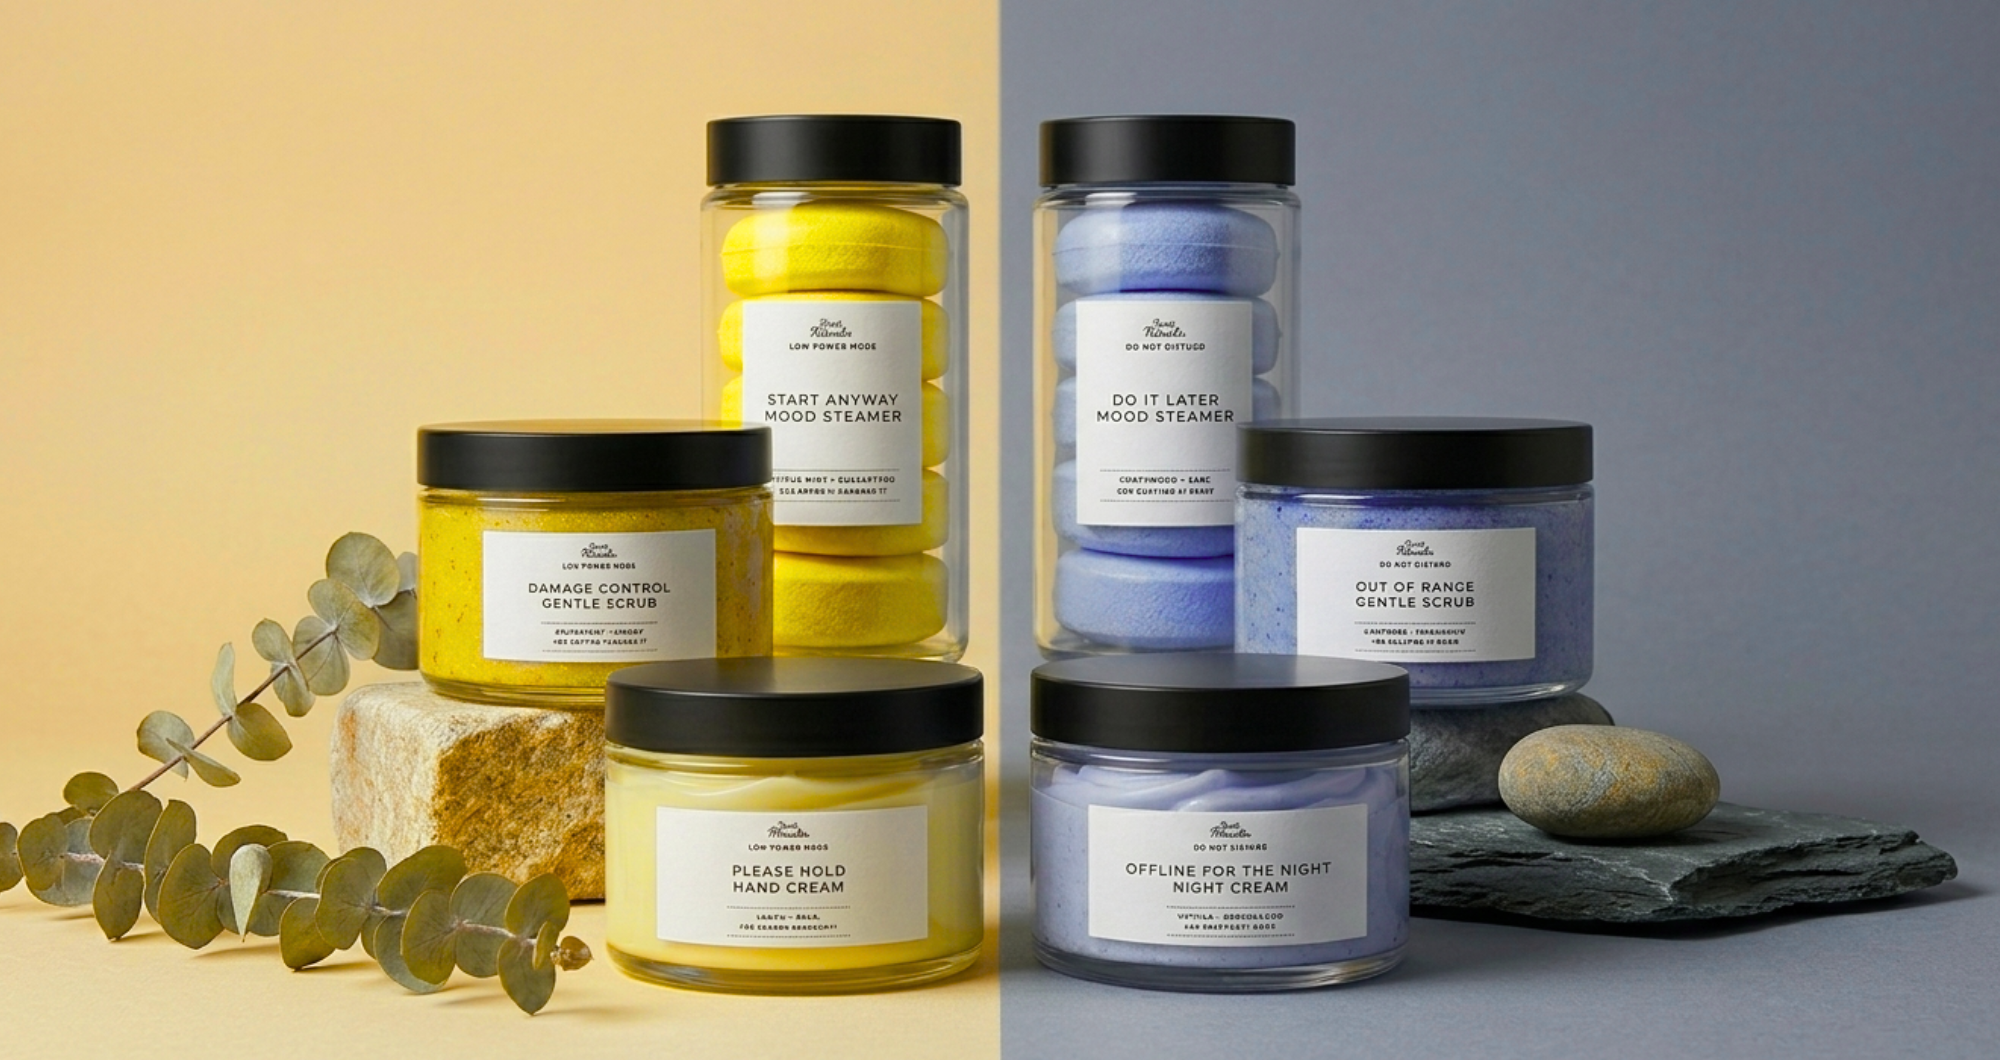
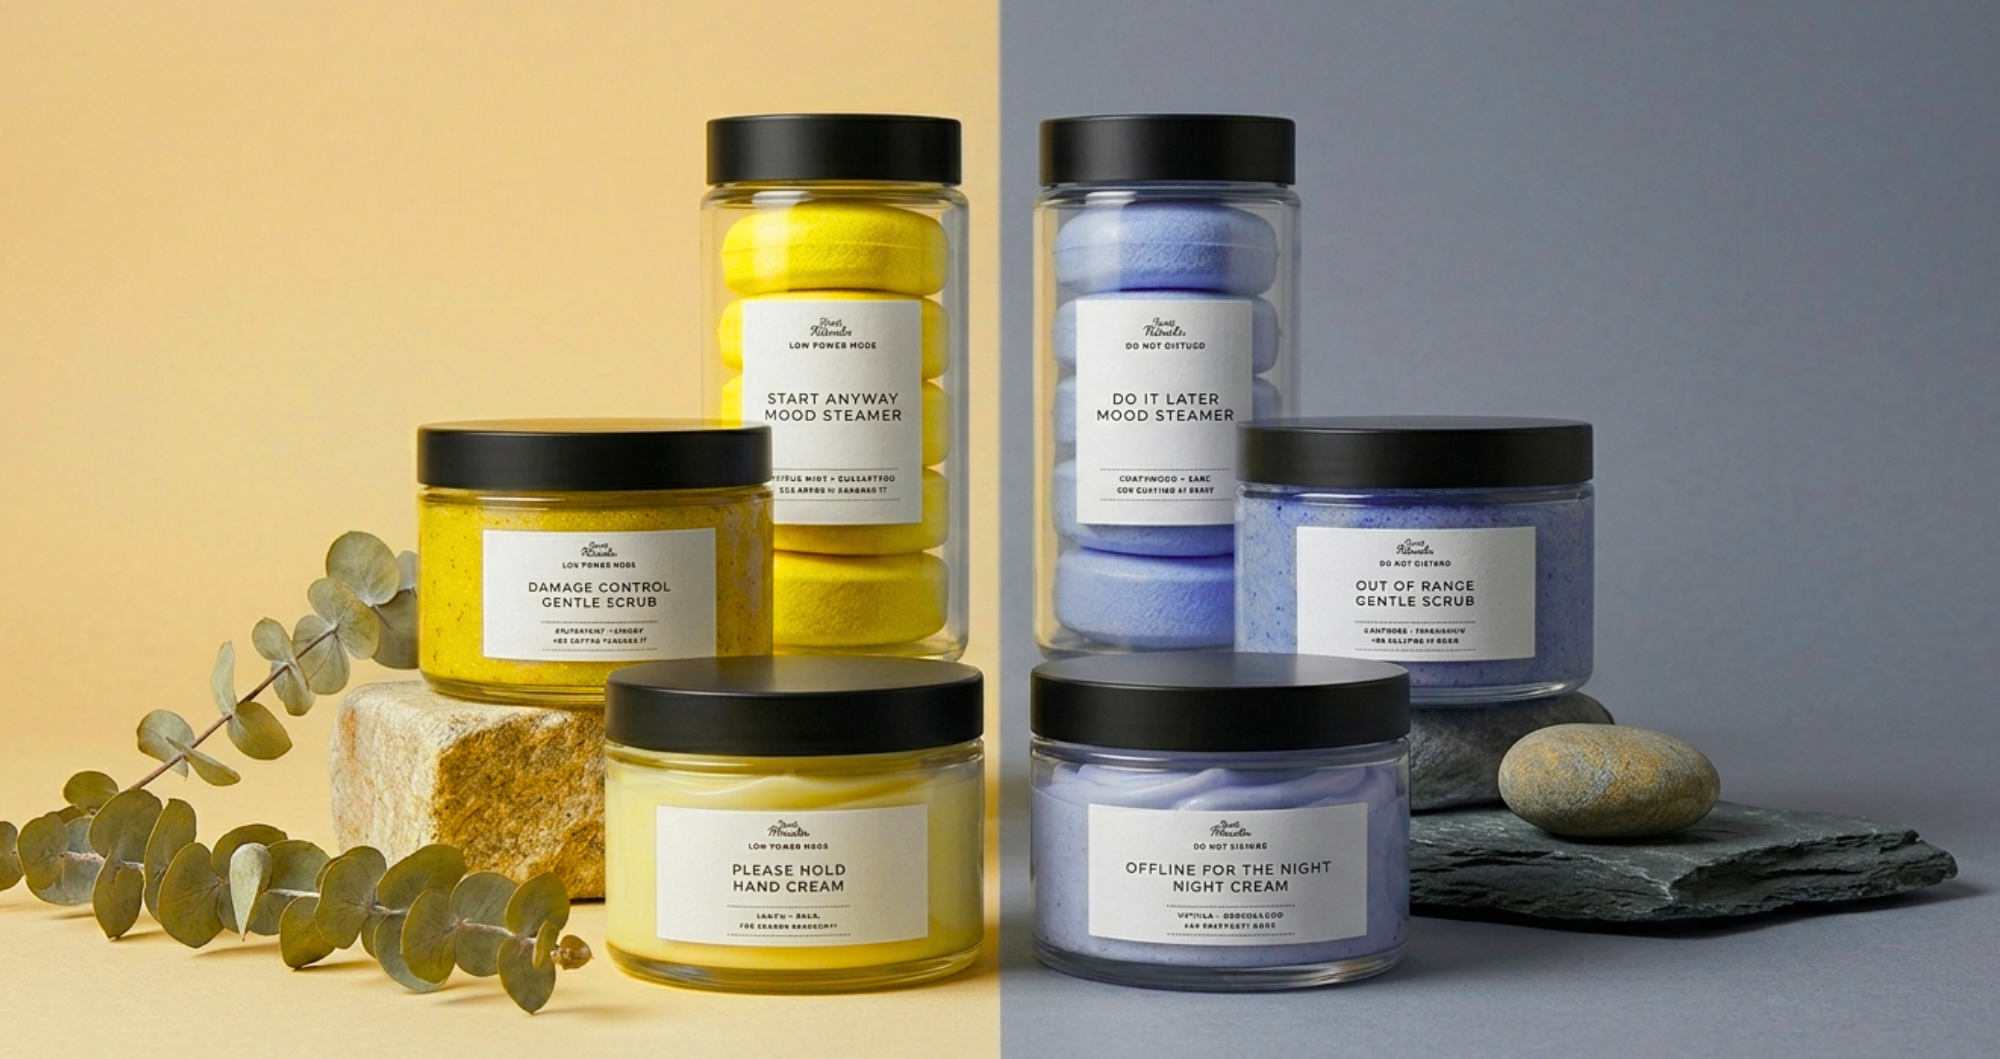
Add files via upload

diff --git a/style.css b/style.css
@@ -1,6 +1,7 @@
 /* RESET RITUALS — STYLESHEET
-   GIT 519 Final Project
-   Author: Ruby Hassan */
+    GIT 519 Final Project
+    Author: Ruby Hassan
+    Assets: All images, logos, labels, and product mockups were created by the author for Reset Rituals. */
 
 
 /* FONT IMPORTS */
@@ -122,7 +123,7 @@ p {
 ::selection { background: var(--ink); color: var(--bg-page); }
 
 
-/* SHARED UI TEXT (buttons, nav, labels) */
+/* UI TEXT (buttons, nav, labels) */
 .uiText, #mainNav a, #footerNav a, #themeControls button,
 #modeSwitch button, #productControls button, #heroBtn,
 #playBtn, #submitBtn, footer p,
@@ -138,7 +139,7 @@ p {
 /* HEADER */
 header {
     background-color: var(--bg-page);
-    padding: 1.5rem 4rem;
+    padding: 0 4rem;
     display: grid;
     grid-template-columns: auto 1fr auto;
     align-items: center;
@@ -146,10 +147,13 @@ header {
     max-width: var(--max-width);
     margin: 0 auto;
     border-bottom: 1px solid var(--border);
+    position: sticky;
+    top: 0;
+    z-index: 100;
 }
 
 #siteLogo {
-    height: 66px;
+    height: 60px;
     width: auto;
 }
 
@@ -173,12 +177,12 @@ header {
     gap: 0.25rem;
     border: 1px solid var(--border);
     border-radius: 999px;
-    padding: 0.25rem;
+    padding: 0.1875rem;
 }
 #themeControls button {
-    font-size: 0.75rem;
+    font-size: 0.6875rem;
     color: var(--ink);
-    padding: 0.5rem 1.1rem;
+    padding: 0.5rem 1.75rem;
     border-radius: 999px;
     transition: all 0.3s ease;
 }
@@ -210,6 +214,7 @@ main {
 #heroOverlay {
     width: 100%;
     height: 100%;
+    background-color: rgba(0, 0, 0, 0.15);
     display: flex;
     flex-direction: column;
     justify-content: space-between;
@@ -263,12 +268,12 @@ main {
     border: 1px solid var(--border);
     border-radius: 999px;
     padding: 0.375rem;
-    margin-bottom: 1.75rem;
+    margin-bottom: 1.5rem;
 }
 #modeSwitch button {
     font-size: 0.75rem;
     color: var(--ink);
-    padding: 0.85rem 1.75rem;
+    padding: 0.75rem 2.5rem;
     border-radius: 999px;
     transition: all 0.3s ease;
 }
@@ -282,7 +287,7 @@ main {
     grid-template-columns: repeat(3, 200px);
     gap: 0.75rem;
     justify-content: center;
-    margin-bottom: 4rem;
+    margin-bottom: 2.5rem;
 }
 #productControls button {
     font-size: 0.75rem;
@@ -292,6 +297,7 @@ main {
     border-radius: 999px;
     background-color: transparent;
     transition: all 0.25s ease;
+    max-width: 200px;
 }
 #productControls button:hover { border-color: var(--ink); }
 #productControls button.activeProduct {
@@ -306,7 +312,10 @@ main {
     max-width: 520px;
     margin: 0 auto;
     text-align: center;
-    animation: ease-in-out;
+}
+
+.productCard.currentItem h3{
+    animation: fadeIn 0.4s ease-in-out;
 }
 
 .productCard img {
@@ -329,15 +338,17 @@ main {
 
 .productCard .scent {
     display: inline-block;
+    width: 380px;
     background-color: var(--highlight-bg);
     color: var(--highlight-text);
     font-family: var(--font-display);
     font-size: 1.125rem;
     font-style: italic;
     font-weight: 400;
-    padding: 0.4rem 8rem;
-    margin-bottom: 1.5rem;
+    padding: 0.26rem 0;
+    margin: 0 auto 1rem;
     border-radius: 2px;
+    text-align: center;
 }
 
 .productCard .desc {
@@ -345,7 +356,7 @@ main {
     line-height: 1.75;
     color: var(--ink-soft);
     margin: 0 auto;
-    max-width: 44ch;
+    max-width: 32ch;
 }
 
 .hiddenItem { display: none; }
@@ -556,13 +567,41 @@ body.dark #contactForm textarea:focus { border-color: var(--yellow); }
     gap: 2rem;
     align-items: center;
 }
+
 #contactPref input[type="radio"] {
-    width: auto;
+    appearance: none;
+    -webkit-appearance: none;
+    width: 16px;
+    height: 16px;
     margin-right: 0.5rem;
-    accent-color: var(--ink);
+    border: 1.5px solid var(--ink);
+    border-radius: 50%;
+    background-color: var(--bg-form);
     cursor: pointer;
+    position: relative;
+    vertical-align: middle;
 }
-body.dark #contactPref input[type="radio"] { accent-color: var(--yellow); }
+
+#contactPref input[type="radio"]:checked::after {
+    content: "";
+    position: absolute;
+    top: 50%;
+    left: 50%;
+    transform: translate(-50%, -50%);
+    width: 8px;
+    height: 8px;
+    border-radius: 50%;
+    background-color: var(--ink);
+}
+
+body.dark #contactPref input[type="radio"] {
+    border-color: var(--yellow);
+    background-color: var(--bg-form);
+}
+
+body.dark #contactPref input[type="radio"]:checked::after {
+    background-color: var(--yellow);
+}
 
 #contactPref .radioRow label {
     display: inline;
@@ -640,14 +679,20 @@ body.dark #submitBtn {
     font-size: 0.95rem;
     line-height: 1.85;
 }
-#formSuccess p strong {
+#formSuccess .successLine {
+    margin-bottom: 0.75rem;
+}
+#formSuccess .successLine:last-child {
+    margin-bottom: 0;
+}
+#formSuccess strong {
     font-family: var(--font-ui);
     font-size: 0.7rem;
     letter-spacing: 0.2em;
     text-transform: uppercase;
     color: var(--ink);
     display: block;
-    margin-top: 0.75rem;
+    margin-bottom: 0.25rem;
 }
 
 

diff --git a/index.html b/index.html
@@ -4,12 +4,12 @@
     <meta charset="UTF-8">
     <meta name="description" content="Reset Rituals. Self-care for getting through it and for shutting it down. Mood steamers, gentle scrubs, and recovery creams for your AM and PM rituals.">
     <meta name="author" content="Ruby Hassan">
-    <title>Reset Rituals. | For Getting Through It. For Shutting It Down.</title>
-    <link rel="icon" type="image/png" href="images/logo_pm.png">
+    <title>Reset Rituals. | For Getting Through It & For Shutting It Down.</title>
+    <link rel="icon" type="image/png" href="images/logo_favicon.png">
     <link rel="stylesheet" href="style.css">
     <script src="script.min.js" defer></script>
 </head>
-<body>
+<body id="top">
 
     <header id="top">
         <a href="#top" id="logoLink">
@@ -26,8 +26,8 @@
         </nav>
         <section id="themeControls">
             <h2 class="sr-only">Theme</h2>
-            <button id="lightBtn" type="button" class="activeTheme">Light</button>
-            <button id="darkBtn" type="button">Dark</button>
+            <button id="lightBtn" type="button" class="activeTheme" aria-pressed="true">Light</button>
+            <button id="darkBtn" type="button" aria-pressed="false">Dark</button>
         </section>
     </header>
 
@@ -46,15 +46,15 @@
 
             <section id="modeSwitch">
                 <h3 class="sr-only">Choose Your Mode</h3>
-                <button id="amBtn" type="button" class="activeMode">Low Power Mode</button>
-                <button id="pmBtn" type="button">Do Not Disturb</button>
+                <button id="amBtn" type="button" class="activeMode" aria-pressed="true">Low Power Mode</button>
+                <button id="pmBtn" type="button" aria-pressed="false">Do Not Disturb</button>
             </section>
 
             <section id="productControls">
                 <h3 class="sr-only">Select a Product</h3>
-                <button id="steamerBtn" type="button" class="activeProduct">Mood Steamer</button>
-                <button id="scrubBtn" type="button">Gentle Scrub</button>
-                <button id="creamBtn" type="button">Recovery Cream</button>
+                <button id="steamerBtn" type="button" class="activeProduct" aria-pressed="true">Mood Steamer</button>
+                <button id="scrubBtn" type="button" aria-pressed="false">Gentle Scrub</button>
+                <button id="creamBtn" type="button" aria-pressed="false">Recovery Cream</button>
             </section>
 
             <section id="steamerAM" class="productCard currentItem">
@@ -105,9 +105,9 @@
             <p class="gameSub">Pick a number from 1 to 10.</p>
             <p class="gameSub">Match ours and you&rsquo;re entered into our launch giveaway.</p>
 
-            <form id="gameForm">
+            <form id="gameForm" novalidate>
                 <label for="numGuess">Your Guess (1 to 10)</label>
-                <span class="message" id="guessMsg">Please enter a whole number from 1 to 10.</span>
+                <span class="message" id="guessMsg" aria-live="polite">Please enter a whole number from 1 to 10.</span>
                 <input type="number" name="numGuess" id="numGuess" min="1" max="10">
                 <input type="submit" id="playBtn" value="Try your luck!">
             </form>
@@ -118,7 +118,7 @@
                     <li id="userNum"><span>&ndash;</span>Your Guess</li>
                     <li id="randomNum"><span>&ndash;</span>Winning Number</li>
                 </ul>
-                <p id="gameMsg">Take a guess to play.</p>
+                <p id="gameMsg" aria-live="polite">Take a guess to play.</p>
             </section>
         </section>
 
@@ -137,7 +137,7 @@
             <form id="contactForm" novalidate>
                 <label for="fullName">Full Name</label>
                 <input type="text" name="fullName" id="fullName">
-                <span class="message" id="nameMsg">Please enter your first and last name.</span>
+                <span class="message" id="nameMsg" aria-live="polite">Please enter your first and last name.</span>
 
                 <fieldset id="contactPref">
                     <legend>Preferred Contact Method</legend>
@@ -147,20 +147,20 @@
                         <input type="radio" name="prefContact" id="prefEmail" value="email">
                         <label for="prefEmail">Email</label>
                     </div>
-                    <span class="message" id="prefMsg">Please choose a contact method.</span>
+                    <span class="message" id="prefMsg" aria-live="polite">Please choose a contact method.</span>
                 </fieldset>
 
                 <label for="email">Email Address</label>
                 <input type="email" name="email" id="email">
-                <span class="message" id="emailMsg">Please enter a valid email address.</span>
+                <span class="message" id="emailMsg" aria-live="polite">Please enter a valid email address.</span>
 
                 <label for="phone">Phone Number</label>
                 <input type="tel" name="phone" id="phone">
-                <span class="message" id="phoneMsg">Please enter a valid 10 digit phone number.</span>
+                <span class="message" id="phoneMsg" aria-live="polite">Please enter a valid 10 digit phone number.</span>
 
                 <label for="comments">Comments</label>
                 <textarea name="comments" id="comments" rows="5"></textarea>
-                <span class="message" id="commentsMsg">Please leave a comment.</span>
+                <span class="message" id="commentsMsg" aria-live="polite">Please leave a comment.</span>
 
                 <input type="submit" id="submitBtn" value="Send Message">
             </form>